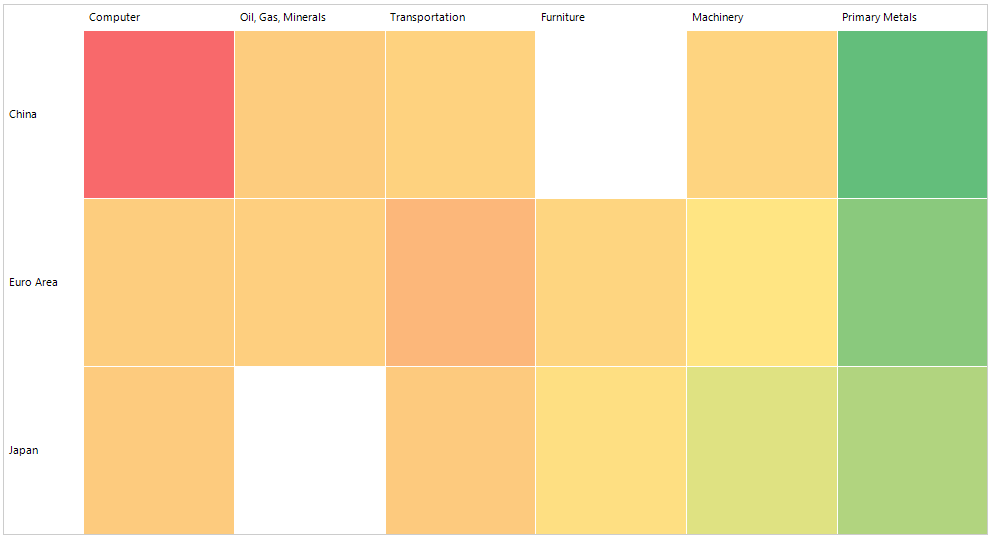
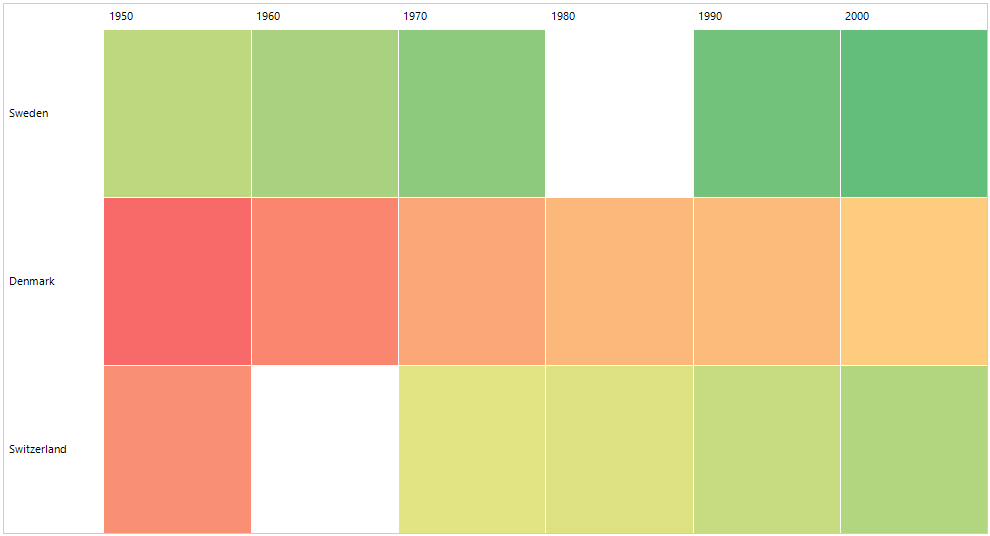
HeatMap: Update Unbound Mode image and code snippet

diff --git a/controls/heatmap/populating-with-data/unbound-mode.md b/controls/heatmap/populating-with-data/unbound-mode.md
@@ -27,28 +27,28 @@ In this example, we will showcase the usage of the CategoricalDefinition to illu
 CategoricalDefinition def = new CategoricalDefinition();
 HeatMapGradientColorizer colorizer = new HeatMapGradientColorizer();
 colorizer.GradientStops.Add(new GradientStop(ColorTranslator.FromHtml("#FFF8696B"), 0.0f));
-colorizer.GradientStops.Add(new GradientStop(ColorTranslator.FromHtml("#FFFFEB84"), 0.5f));
+colorizer.GradientStops.Add(new GradientStop(ColorTranslator.FromHtml("#FFFFEB84"), 0.3f));
 colorizer.GradientStops.Add(new GradientStop(ColorTranslator.FromHtml("#FF63BE7B"), 1.0f));
 def.Colorizer = colorizer;
-def.Items.Add(new CategoricalHeatMapItem("China", "Computer", -151.9));
-def.Items.Add(new CategoricalHeatMapItem("China", "Oil, Gas, Minerals", 1.9));
-def.Items.Add(new CategoricalHeatMapItem("China", "Transportation", 10.9));
-def.Items.Add(new CategoricalHeatMapItem("China", "Furniture", double.NaN));
-def.Items.Add(new CategoricalHeatMapItem("China", "Machinery", 14));
-def.Items.Add(new CategoricalHeatMapItem("China", "Primary Metals", 250));
-def.Items.Add(new CategoricalHeatMapItem("Euro Area", "Computer", 3.4));
-def.Items.Add(new CategoricalHeatMapItem("Euro Area", "Oil, Gas, Minerals", 6.4));
-def.Items.Add(new CategoricalHeatMapItem("Euro Area", "Transportation", -30.9));
-def.Items.Add(new CategoricalHeatMapItem("Euro Area", "Furniture", 15));
-def.Items.Add(new CategoricalHeatMapItem("Euro Area", "Machinery", 40));
-def.Items.Add(new CategoricalHeatMapItem("Euro Area", "Primary Metals", 200));
-def.Items.Add(new CategoricalHeatMapItem("Japan", "Computer", 0));
-def.Items.Add(new CategoricalHeatMapItem("Japan", "Oil, Gas, Minerals", double.NaN));
-def.Items.Add(new CategoricalHeatMapItem("Japan", "Transportation", -1.8));
-def.Items.Add(new CategoricalHeatMapItem("Japan", "Furniture", 30));
-def.Items.Add(new CategoricalHeatMapItem("Japan", "Machinery", 90));
-def.Items.Add(new CategoricalHeatMapItem("Japan", "Primary Metals", 150));
-this.radHeatMap1.RowHeaderWidth = 80;
+def.Items.Add(new CategoricalHeatMapItem("Sweden", 1950, 7015));
+def.Items.Add(new CategoricalHeatMapItem("Sweden", 1960, 7481));
+def.Items.Add(new CategoricalHeatMapItem("Sweden", 1970, 8043));
+def.Items.Add(new CategoricalHeatMapItem("Sweden", 1980, double.NaN));
+def.Items.Add(new CategoricalHeatMapItem("Sweden", 1990, 8601));
+def.Items.Add(new CategoricalHeatMapItem("Sweden", 2000, 8925));
+def.Items.Add(new CategoricalHeatMapItem("Denmark", 1950, 4272));
+def.Items.Add(new CategoricalHeatMapItem("Denmark", 1960, 4582));
+def.Items.Add(new CategoricalHeatMapItem("Denmark", 1970, 4929));
+def.Items.Add(new CategoricalHeatMapItem("Denmark", 1980, 5124));
+def.Items.Add(new CategoricalHeatMapItem("Denmark", 1990, 5141));
+def.Items.Add(new CategoricalHeatMapItem("Denmark", 2000, 5338));
+def.Items.Add(new CategoricalHeatMapItem("Switzerland", 1950, 4695));
+def.Items.Add(new CategoricalHeatMapItem("Switzerland", 1960, double.NaN));
+def.Items.Add(new CategoricalHeatMapItem("Switzerland", 1970, 6268));
+def.Items.Add(new CategoricalHeatMapItem("Switzerland", 1980, 6386));
+def.Items.Add(new CategoricalHeatMapItem("Switzerland", 1990, 6844));
+def.Items.Add(new CategoricalHeatMapItem("Switzerland", 2000, 7278));
+this.radHeatMap1.RowHeaderWidth = 100;
 this.radHeatMap1.Definition = def;
 
 
@@ -58,28 +58,28 @@ this.radHeatMap1.Definition = def;
 Dim def As CategoricalDefinition = New CategoricalDefinition()
 Dim colorizer As HeatMapGradientColorizer = New HeatMapGradientColorizer()
 colorizer.GradientStops.Add(New GradientStop(ColorTranslator.FromHtml("#FFF8696B"), 0.0F))
-colorizer.GradientStops.Add(New GradientStop(ColorTranslator.FromHtml("#FFFFEB84"), 0.5F))
+colorizer.GradientStops.Add(New GradientStop(ColorTranslator.FromHtml("#FFFFEB84"), 0.3F))
 colorizer.GradientStops.Add(New GradientStop(ColorTranslator.FromHtml("#FF63BE7B"), 1.0F))
 def.Colorizer = colorizer
-def.Items.Add(New CategoricalHeatMapItem("China", "Computer", -151.9))
-def.Items.Add(New CategoricalHeatMapItem("China", "Oil, Gas, Minerals", 1.9))
-def.Items.Add(New CategoricalHeatMapItem("China", "Transportation", 10.9))
-def.Items.Add(New CategoricalHeatMapItem("China", "Furniture", Double.NaN))
-def.Items.Add(New CategoricalHeatMapItem("China", "Machinery", 14))
-def.Items.Add(New CategoricalHeatMapItem("China", "Primary Metals", 250))
-def.Items.Add(New CategoricalHeatMapItem("Euro Area", "Computer", 3.4))
-def.Items.Add(New CategoricalHeatMapItem("Euro Area", "Oil, Gas, Minerals", 6.4))
-def.Items.Add(New CategoricalHeatMapItem("Euro Area", "Transportation", -30.9))
-def.Items.Add(New CategoricalHeatMapItem("Euro Area", "Furniture", 15))
-def.Items.Add(New CategoricalHeatMapItem("Euro Area", "Machinery", 40))
-def.Items.Add(New CategoricalHeatMapItem("Euro Area", "Primary Metals", 200))
-def.Items.Add(New CategoricalHeatMapItem("Japan", "Computer", 0))
-def.Items.Add(New CategoricalHeatMapItem("Japan", "Oil, Gas, Minerals", Double.NaN))
-def.Items.Add(New CategoricalHeatMapItem("Japan", "Transportation", -1.8))
-def.Items.Add(New CategoricalHeatMapItem("Japan", "Furniture", 30))
-def.Items.Add(New CategoricalHeatMapItem("Japan", "Machinery", 90))
-def.Items.Add(New CategoricalHeatMapItem("Japan", "Primary Metals", 150))
-Me.radHeatMap1.RowHeaderWidth = 80
+def.Items.Add(New CategoricalHeatMapItem("Sweden", 1950, 7015))
+def.Items.Add(New CategoricalHeatMapItem("Sweden", 1960, 7481))
+def.Items.Add(New CategoricalHeatMapItem("Sweden", 1970, 8043))
+def.Items.Add(New CategoricalHeatMapItem("Sweden", 1980, Double.NaN))
+def.Items.Add(New CategoricalHeatMapItem("Sweden", 1990, 8601))
+def.Items.Add(New CategoricalHeatMapItem("Sweden", 2000, 8925))
+def.Items.Add(New CategoricalHeatMapItem("Denmark", 1950, 4272))
+def.Items.Add(New CategoricalHeatMapItem("Denmark", 1960, 4582))
+def.Items.Add(New CategoricalHeatMapItem("Denmark", 1970, 4929))
+def.Items.Add(New CategoricalHeatMapItem("Denmark", 1980, 5124))
+def.Items.Add(New CategoricalHeatMapItem("Denmark", 1990, 5141))
+def.Items.Add(New CategoricalHeatMapItem("Denmark", 2000, 5338))
+def.Items.Add(New CategoricalHeatMapItem("Switzerland", 1950, 4695))
+def.Items.Add(New CategoricalHeatMapItem("Switzerland", 1960, Double.NaN))
+def.Items.Add(New CategoricalHeatMapItem("Switzerland", 1970, 6268))
+def.Items.Add(New CategoricalHeatMapItem("Switzerland", 1980, 6386))
+def.Items.Add(New CategoricalHeatMapItem("Switzerland", 1990, 6844))
+def.Items.Add(New CategoricalHeatMapItem("Switzerland", 2000, 7278))
+Me.radHeatMap1.RowHeaderWidth = 100
 Me.radHeatMap1.Definition = def
 
 
